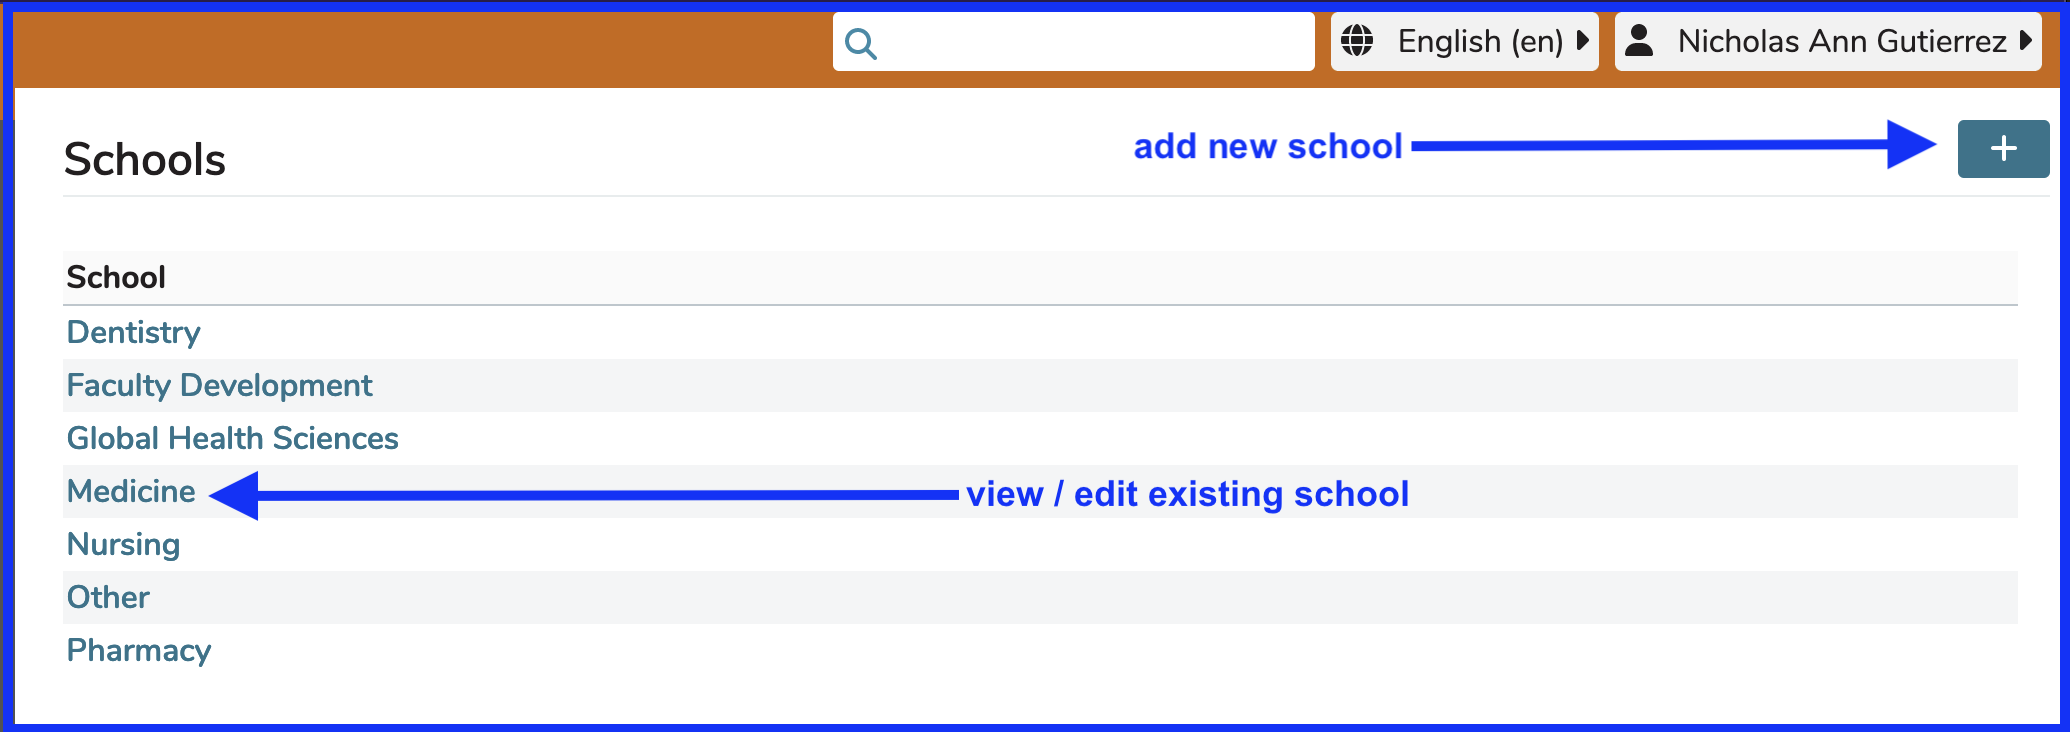
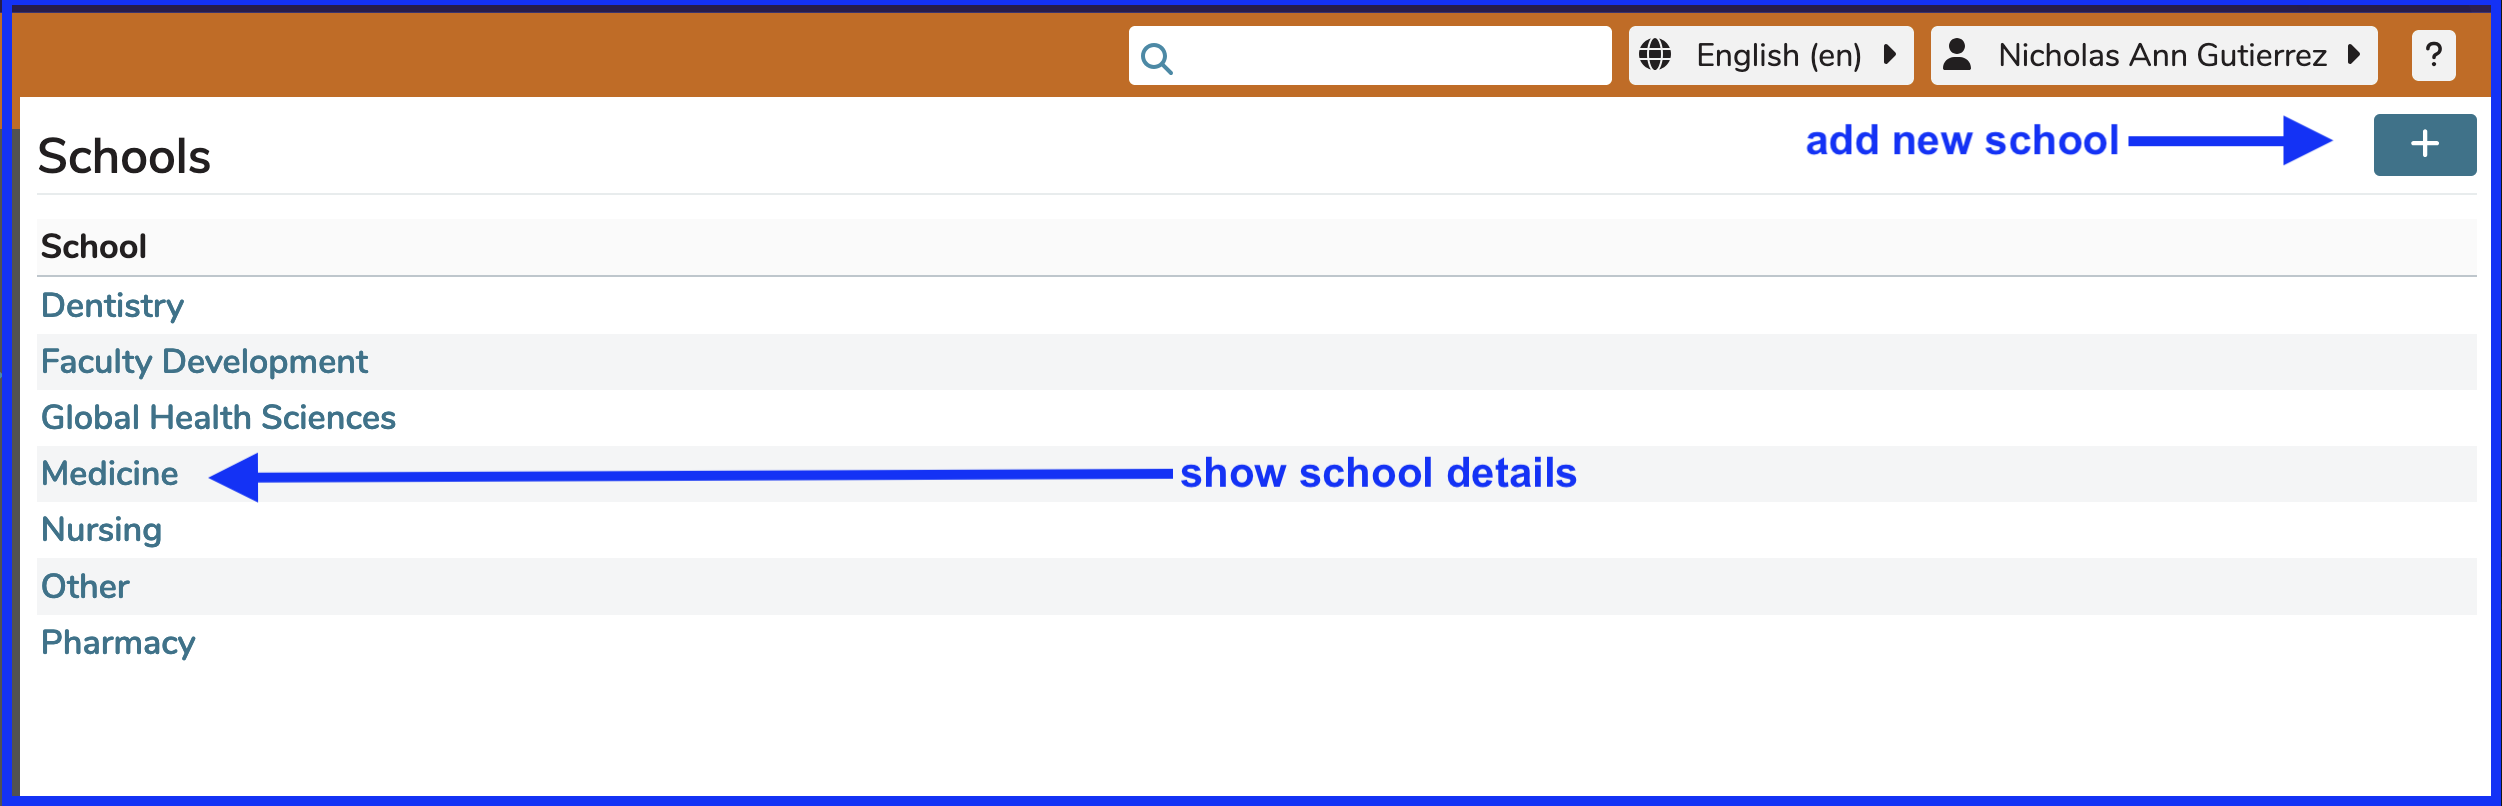
updated image - school list

Changed region(s): [[0.0, 0.0, 1.0, 0.2404], [0.0, 0.1202, 0.6802, 0.9918], [0.9894, 0.9617, 1.0, 0.9918]]

diff --git a/schools/README.md b/schools/README.md
@@ -30,6 +30,6 @@ The attributes listed above for the selected School can be configured once the S
 
 ![school list](../images/schools/README/school_list.png)
 
-After clicking as shown above, detailed information pertaining to this school appears. From here, the remaining configurable School attributes can be entered.
+After clicking as shown above, detailed information pertaining to this school appears. From here, the remaining configurable attributes can be entered.
 
 ![school details](../images/schools/README/school_details.png)
